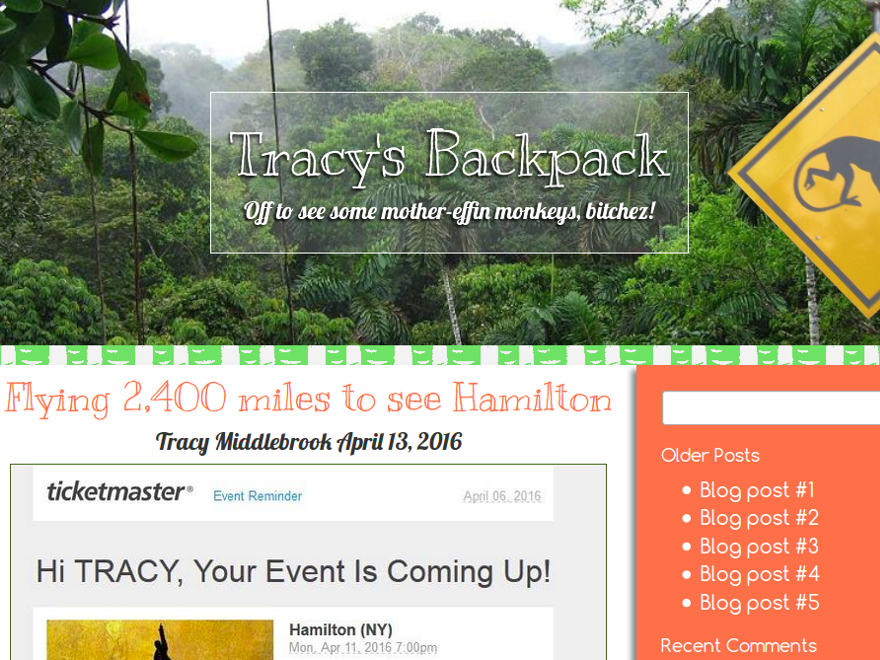
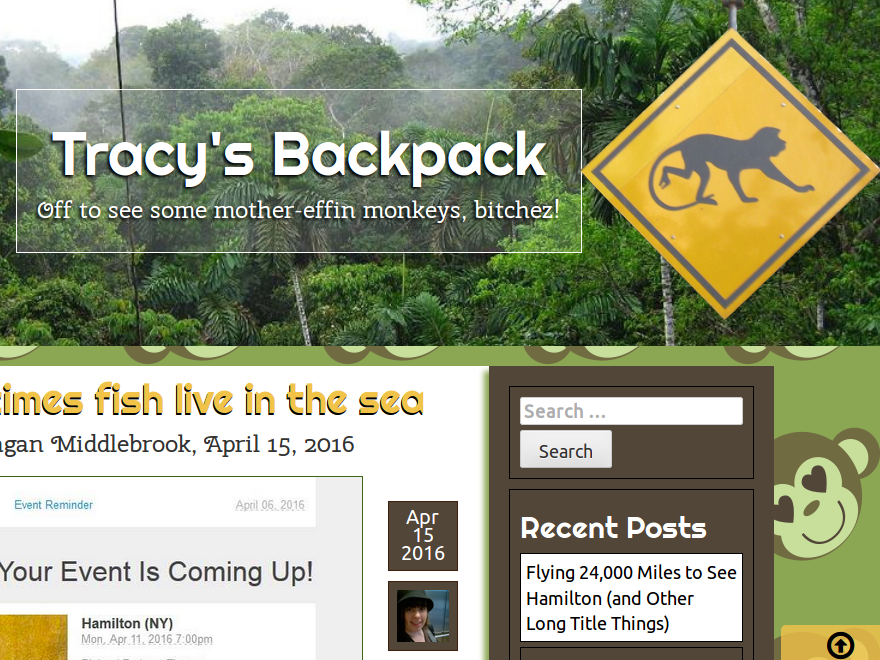
Got alternating images working and updated screenshot

diff --git a/assets/js/main.js b/assets/js/main.js
@@ -1,3 +1,19 @@
+//Function to alternate post photos left and right
+$( document ).ready(function() {
+  var imgCount = 0;
+  $('.post-text img').each(function(){
+    // remove our alignnone class for good measure
+    $(this).removeClass('alignnone');
+    // If the count is even, alignright, else align left
+    if(imgCount%2 == 0){
+      $(this).addClass('img-right');
+    } else {
+      $(this).addClass('img-left');
+    }
+    imgCount++;
+  });
+});
+
 $(function() {
 
     //Cache the window object

diff --git a/style.css b/style.css
@@ -890,13 +890,13 @@ object {
 
 
 
-.post-text img:nth-child(even) {
+.img-right {
   float: right;
   clear: right;
   margin: 20px 0px 20px 20px;
 }
 
-.post-text img:nth-child(odd){
+.img-left {
   float: left;
   clear: left;
   margin: 20px 20px 20px 0px;
